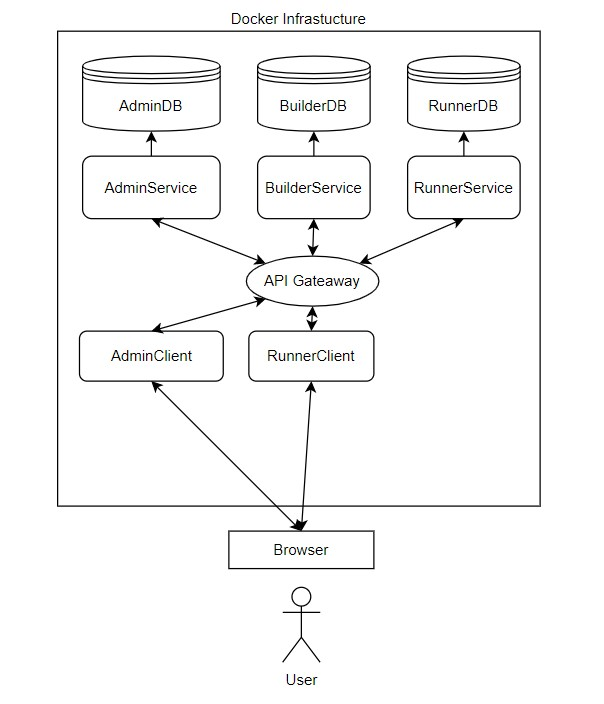
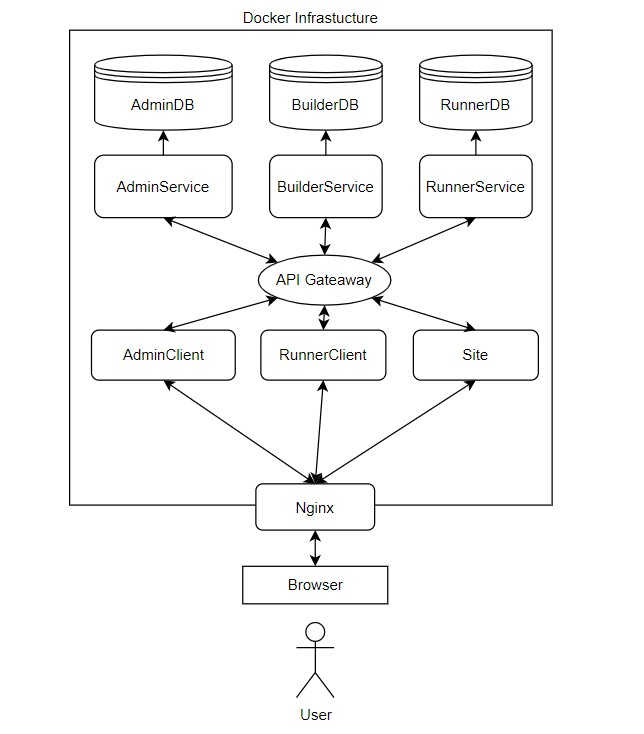
Updated project structure schema

diff --git a/README.md b/README.md
@@ -33,6 +33,7 @@ Frontend:
 | BuilderService | Service for building applications       |
 | RunnerService  | Service for running applications        |
 | RunnerClient   | Client for interacting with launched app|
+| Site           | User projects management                |
 
 #### Main models
 - Programming language
